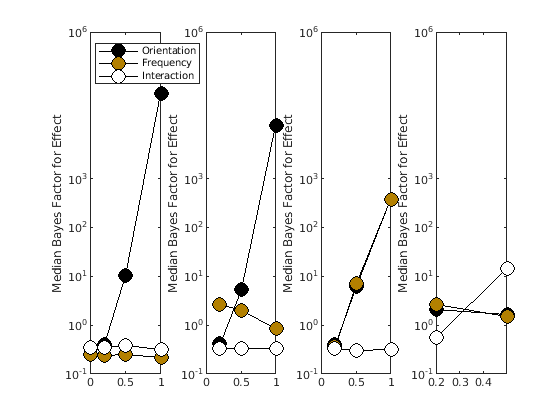
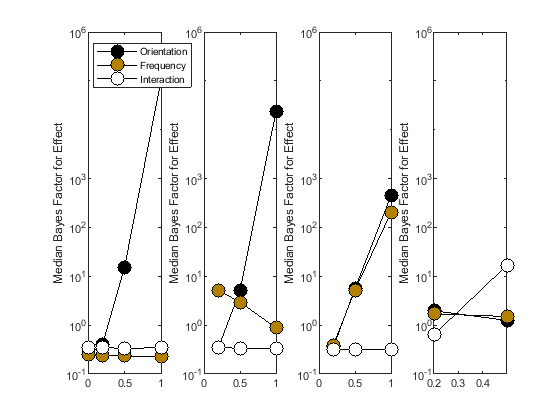
Updated documentation

diff --git a/docs/index.html b/docs/index.html
@@ -6,7 +6,7 @@
    <!--
 This HTML was auto-generated from MATLAB code.
 To make changes, update the MATLAB code and republish this document.
-      --><title>Getting Started with the bayesFactor Toolbox</title><meta name="generator" content="MATLAB 9.6"><link rel="schema.DC" href="http://purl.org/dc/elements/1.1/"><meta name="DC.date" content="2019-12-19"><meta name="DC.source" content="gettingStarted.m"><style type="text/css">
+      --><title>Getting Started with the bayesFactor Toolbox</title><meta name="generator" content="MATLAB 9.5"><link rel="schema.DC" href="http://purl.org/dc/elements/1.1/"><meta name="DC.date" content="2019-12-29"><meta name="DC.source" content="gettingStarted.m"><style type="text/css">
 html,body,div,span,applet,object,iframe,h1,h2,h3,h4,h5,h6,p,blockquote,pre,a,abbr,acronym,address,big,cite,code,del,dfn,em,font,img,ins,kbd,q,s,samp,small,strike,strong,sub,sup,tt,var,b,u,i,center,dl,dt,dd,ol,ul,li,fieldset,form,label,legend,table,caption,tbody,tfoot,thead,tr,th,td{margin:0;padding:0;border:0;outline:0;font-size:100%;vertical-align:baseline;background:transparent}body{line-height:1}ol,ul{list-style:none}blockquote,q{quotes:none}blockquote:before,blockquote:after,q:before,q:after{content:'';content:none}:focus{outine:0}ins{text-decoration:none}del{text-decoration:line-through}table{border-collapse:collapse;border-spacing:0}
 
 html { min-height:100%; margin-bottom:1px; }
@@ -66,8 +66,12 @@ table td { padding:7px 5px; text-align:left; vertical-align:top; border:1px soli
 
 
 
-  </style></head><body><div class="content"><h1>Getting Started with the bayesFactor Toolbox</h1><!--introduction--><!--/introduction--><h2>Contents</h2><div><ul><li><a href="#1">Description</a></li><li><a href="#2">Download &amp; Installation</a></li><li><a href="#3">Authors &amp; Sources</a></li><li><a href="#4">System Requirements</a></li><li><a href="#5">Features</a></li><li><a href="#6">Installation</a></li><li><a href="#7">Examples</a></li><li><a href="#8">Single sample T-Test</a></li><li><a href="#10">Paired T-Test</a></li><li><a href="#13">ANOVA</a></li><li><a href="#20">Repeated Measurements</a></li><li><a href="#26">Figures from Rouder et al. 2012</a></li><li><a href="#29">Bayes Factor Design Analysis - Figures from Schoenbrodt &amp; Wagenmakers</a></li></ul></div><h2 id="1">Description</h2><p>Bayesian statistical analysis can help to design experiments that lead to compelling evidence and to quantify the evidence in favor or against a  hypothesis, based on a dataset.</p><p>This toolbox provides easy-to-use functions to replace (or complement) standard tools for experimental design (e.g. power analysis)  and hypothesis testing (e.g. ttest, anova).</p><h2 id="2">Download &amp; Installation</h2><p>Clone or fork the repository from here  https://github.com/klabhub/bayesFactor then run installBayesFactor.m</p><h2 id="3">Authors &amp; Sources</h2><p>The code was written by Bart Krekelberg (<a href="mailto:bart@vision.rutgers.edu">bart@vision.rutgers.edu</a>) with some code taken from Sam Schwarzkopf's code and with inspiration from the R package by Richard Morey.</p><p>The mathematical underpinning of these analyzes can be found in the following papers:</p><div><ul><li>Rouder, J. N., Morey, R. D., Speckman, P. L. &amp; Province, J. M. Default Bayes factors for ANOVA designs. J. Math. Psychol. 56, 356?374 (2012).</li><li>Kass, R. E. &amp; Raftery, A. E. Bayes factors. J. Am. Stat. Soc. 90, 733?795 (1995).</li><li>Morey, R. D. &amp; Wagenmakers, E. J. Simple relation between Bayesian order-restricted and point-null hypothesis tests. Stat. Probab. Lett. 92, 121?124 (2014).</li><li>Schoenbrodt, F. D. &amp; Wagenmakers, E. J. Bayes factor design analysis: Planning for compelling evidence. Psychon. Bull. Rev. 1?15 (2017). doi:10.3758/s13423-017-1230-y</li></ul></div><h2 id="4">System Requirements</h2><p>This toolbox depends on the Mathworks &lt;https://www.mathworks.com/products/statistics.html Statistics and Machine Learning Toolbox &gt;</p><h2 id="5">Features</h2><p>Currently the following statistical tests have been implemented</p><div><ul><li>One sample t-test  (<tt>bf.ttest</tt>)</li><li>Two sample t-test (<tt>bf.ttest2</tt>)</li><li>N-Way Anova with fixed and random effects  (<tt>bf.anova</tt>)</li><li>Pearson Correlation  (<tt>bf.corr</tt>)</li><li>Binomial Test  (<tt>bf.binom</tt>)</li></ul></div><p>The |bf.designAnalysis |function is used to analyze experimental design (e.g. "power analysis").</p><pre>Note how all user accessible functions in this toolbox are defined inside the 'bf'
-package. This avoids naming conflicts with the standard ttest, ttest2 , etc functions.</pre><p>Function inside bf.internal are not meant to be called  directly.</p><h2 id="6">Installation</h2><p>Place all files and folders in their own folder (e.g. bayesFactor) and then add that folder to your Matlab search path.</p><p>The <tt>installBayesFactor.m</tt> function willl do this for you.</p><h2 id="7">Examples</h2><p>These examples build on the examples used in the Statistics and Machine Learning Toolbox for traditional (frequentist) hypothesis testing and shows how they can be complemented with Bayesian analysis.</p><h2 id="8">Single sample T-Test</h2><pre class="codeinput">load <span class="string">stockreturns</span>
+  </style></head><body><div class="content"><h1>Getting Started with the bayesFactor Toolbox</h1><!--introduction--><!--/introduction--><h2>Contents</h2><div><ul><li><a href="#1">Description</a></li><li><a href="#2">Download</a></li><li><a href="#3">Authors &amp; Sources</a></li><li><a href="#4">System Requirements</a></li><li><a href="#5">Features</a></li><li><a href="#6">Installation</a></li><li><a href="#7">Examples</a></li><li><a href="#8">Single sample T-Test</a></li><li><a href="#10">Paired T-Test</a></li><li><a href="#13">ANOVA</a></li><li><a href="#20">Repeated Measurements</a></li><li><a href="#26">Regression</a></li><li><a href="#27">Show the comparisons</a></li><li><a href="#28">Figures from Rouder et al. 2012</a></li><li><a href="#31">Bayes Factor Design Analysis</a></li><li><a href="#32">Figure 3 in S&amp;W analyzes a Fixed-N design for a two-sample T-test with</a></li></ul></div><h2 id="1">Description</h2><p>Bayesian statistical analysis can help to design experiments that lead to compelling evidence and to quantify the evidence in favor or against a  hypothesis, based on a dataset.</p><p>This toolbox provides easy-to-use functions to replace (or complement) standard tools for experimental design (e.g. power analysis)  and hypothesis testing (e.g. ttest, anova).</p><h2 id="2">Download</h2><p>Clone or fork the repository from <a href="https://github.com/klabhub/bayesFactor">https://github.com/klabhub/bayesFactor</a></p><h2 id="3">Authors &amp; Sources</h2><p>The code was written by Bart Krekelberg (<a href="mailto:bart@vision.rutgers.edu">bart@vision.rutgers.edu</a>) with some code taken from Sam Schwarzkopf's code and with inspiration from the R package by Richard Morey.</p><p>The mathematical underpinning of these analyzes can be found in the following papers:</p><div><ul><li>Rouder, J. N., Morey, R. D., Speckman, P. L. &amp; Province, J. M. Default Bayes factors for ANOVA designs. J. Math. Psychol. 56, 356?374 (2012).</li><li>Kass, R. E. &amp; Raftery, A. E. Bayes factors. J. Am. Stat. Soc. 90, 733?795 (1995).</li><li>Morey, R. D. &amp; Wagenmakers, E. J. Simple relation between Bayesian order-restricted and point-null hypothesis tests. Stat. Probab. Lett. 92, 121?124 (2014).</li><li>Schoenbrodt, F. D. &amp; Wagenmakers, E. J. Bayes factor design analysis: Planning for compelling evidence. Psychon. Bull. Rev. 1?15 (2017). doi:10.3758/s13423-017-1230-y</li></ul></div><h2 id="4">System Requirements</h2><p>This toolbox depends on the Mathworks Statistics and Machine Learning Toolbox <a href="https://www.mathworks.com/products/statistics.html">https://www.mathworks.com/products/statistics.html</a></p><h2 id="5">Features</h2><p>Currently the following statistical tests have been implemented</p><div><ul><li>One sample t-test  (<tt>bf.ttest</tt>)</li><li>Two sample t-test (<tt>bf.ttest2</tt>)</li><li>N-Way Anova with fixed and random effects, including continuous co-variates  (<tt>bf.anova</tt>)</li><li>Regression (<tt>bf.regression</tt>)</li><li>Pearson Correlation  (<tt>bf.corr</tt>)</li><li>Binomial Test  (<tt>bf.binom</tt>)</li><li>Experimental Design &amp; Power Analysis (<tt>bf.designAnalysis</tt>)</li></ul></div><pre>All user accessible functions in this toolbox are defined inside the 'bf'
+package. This avoids naming conflicts with the standard ttest, ttest2 , etc functions.
+Function inside bf.internal are not meant to be called directly.</pre><pre>+bf/  - The package, with all user accessible functions
+docs/ - Documentation
+examples/ - Example scripts
+tools/    - Tools for the maintenance of the package</pre><h2 id="6">Installation</h2><p>Place all files and folders in their own folder (e.g. bayesFactor) and then add that folder to your Matlab search path.</p><p>The <tt>installBayesFactor.m</tt> function willl do this for you.</p><h2 id="7">Examples</h2><p>These examples build on the examples used in the Statistics and Machine Learning Toolbox for traditional (frequentist) hypothesis testing and shows how they can be complemented with Bayesian analysis. The <tt>examples</tt> folder contains additional scripts with examples.</p><h2 id="8">Single sample T-Test</h2><pre class="codeinput">load <span class="string">stockreturns</span>
 [bf10,p] = bf.ttest(stocks(:,3))
 </pre><pre class="codeoutput">
 bf10 =
@@ -98,9 +102,8 @@ bf01 =
     9.8621
 
 </pre><p>Which means that there is strong evidence (BF&gt;6) that there was <i>*no change</i>* in grades (evidence for absence).</p><h2 id="13">ANOVA</h2><p>Rouder et al 2012 show data for 10 subjects performing a visual detection task. The targets vary in orientation and spatial frequency. These data are stored in table (data) in rouder2012Data.</p><pre class="codeinput">load <span class="string">rouder2012Data</span>
-</pre><p>Analyze full model (linear effects of frequency and  orientation plus their interaction)</p><pre class="codeinput">[bfFull,modelFull] = bf.anova(data,<span class="string">'rt~ori*freq'</span>);
-</pre><pre class="codeoutput">Starting parallel pool (parpool) using the 'local' profile ...
-Connected to the parallel pool (number of workers: 12).
+</pre><p>Analyze full model (linear effects of frequency and  orientation plus their interaction)</p><pre class="codeinput">modelFull = fitlme(data,<span class="string">'rt~ori*freq'</span>);
+bfFull = bf.anova(data,<span class="string">'rt~ori*freq'</span>);
 </pre><p>The <tt>modelFull</tt> is a LinearMixedModel from the Matlab Statistics toolbox. We use it to show the traditional ANOVA table</p><pre class="codeinput">modelFull.anova
 </pre><pre class="codeoutput">
 ans = 
@@ -118,25 +121,26 @@ ans =
 </pre><pre class="codeoutput">
 bfFull =
 
-   16.2167
+   16.5823
 
 </pre><p>To specifically look at the evidence for a main effect of orientation, we need to compare the Bayes Factor of the full model to a restricted model in which everything except the main effect of orientation is kept.</p><pre class="codeinput">bfRestricted  =   bf.anova(data,<span class="string">'rt~freq +ori:freq'</span>);  <span class="comment">% Keep main of freq and ori:freq interaction.</span>
 </pre><p>The evidence for the main effect is the ratio of the Bayes Factors.</p><pre class="codeinput">bfMain = bfFull/bfRestricted
 </pre><pre class="codeoutput">
 bfMain =
 
-  174.5856
+  179.5458
 
 </pre><p>The evidence is overwhelmingly in favor of a main effect of orientation.</p><h2 id="20">Repeated Measurements</h2><p>The experiment Rouder et al describe took repeated measurements from the same subject (for each orientation and frequency), but this is not used in the analysis above. If there was large intersubject variability (e.g. some subjects have an overall slow reaction time) then this could reduce the power of the statistical test to detect an effect of orientation. In the example data set there isn't much variation across subjects, so let's introduce some variation to illustrate this.</p><pre class="codeinput">load <span class="string">rouder2012Data</span>
 slowSubjects = ismember(data.subject,[1 4 6]); <span class="comment">% Lets make subjects 1 4 and 6 slower overall by 0.25s .</span>
 data{slowSubjects,<span class="string">'rt'</span>} = data.rt(slowSubjects)+0.25;
-</pre><p>Calculate the BF and LMM model again</p><pre class="codeinput">[bfFull,modelFull] = bf.anova(data,<span class="string">'rt~ori*freq'</span>);
+</pre><p>Calculate the BF and LMM model again</p><pre class="codeinput">modelFull = fitlme(data,<span class="string">'rt~ori*freq'</span>);
+bfFull = bf.anova(data,<span class="string">'rt~ori*freq'</span>);
 bfFull
 anova(modelFull)
 </pre><pre class="codeoutput">
 bfFull =
 
-    0.5097
+    0.5003
 
 
 ans = 
@@ -150,13 +154,14 @@ ans =
     'freq'               0.87453    1      36        0.35594
     'ori:freq'           0.31648    1      36        0.57722
 
-</pre><p>That does not seem right; we did not change how orientation affects RT and yet both the BF and the anova show that the effect is no longer significant.</p><p>Of course, what is missing is a repeated measures approach. With linear mixed models this is done by including an extra term in the model that captures the idiosyncratic offset in the RT for each subject. In the Wilcoxon formula this is written as (1|subject) : fit a constant term (1) for each level of subject.</p><pre class="codeinput">[bfFull,modelFull] = bf.anova(data,<span class="string">'rt~ori*freq + (1|subject)'</span>);
+</pre><p>That does not seem right; we did not change how orientation affects RT and yet both the BF and the anova show that the effect is no longer significant.</p><p>Of course, what is missing is a repeated measures approach. With linear mixed models this is done by including an extra term in the model that captures the idiosyncratic offset in the RT for each subject. In the Wilcoxon formula this is written as (1|subject) : fit a constant term (1) for each level of subject.</p><pre class="codeinput">modelFull = fitlme(data,<span class="string">'rt~ori*freq + (1|subject)'</span>);
+bfFull = bf.anova(data,<span class="string">'rt~ori*freq + (1|subject)'</span>);
 bfFull
 anova(modelFull)
 </pre><pre class="codeoutput">
 bfFull =
 
-    0.8296
+   10.3271
 
 
 ans = 
@@ -170,40 +175,54 @@ ans =
     'freq'               1.7367    1      36        0.19588
     'ori:freq'           0.6285    1      36         0.4331
 
-</pre><p>This shows that after including the intercept term for subjects, the Bayes Factor is increased substantially (as are the F values in the ANOVA).</p><p>Isolating a main effect while using hte repeated measures aspect of the design works analogously:</p><pre class="codeinput">bfRestricted  =   bf.anova(data,<span class="string">'rt~freq +ori:freq + (1|subject)'</span>);
+</pre><p>This shows that after including the intercept term for subjects, the Bayes Factor is increased substantially (as are the F values in the ANOVA).</p><p>Isolating a main effect while using the repeated measures aspect of the design works analogously:</p><pre class="codeinput">bfRestricted  =   bf.anova(data,<span class="string">'rt~freq +ori:freq + (1|subject)'</span>);
 </pre><p>The evidence for the main effect is the ratio of the Bayes Factors. the difference withbefore is that now both BF have been calculated with the subject random intercept.</p><pre class="codeinput">bfMain = bfFull/bfRestricted
 </pre><pre class="codeoutput">
 bfMain =
 
-   10.7816
+  112.3283
 
-</pre><h2 id="26">Figures from Rouder et al. 2012</h2><p>Much of the mathematical basis for this package is developed in the Rouder et al. paper. To test the package, I recreated some of the figures in their publication.</p><p>Figure 2 in Rouder et al compares critical T-values for a traditional t-test with a Bayes Factor analysis.</p><pre class="codeinput">rouderFigure2;
-</pre><img vspace="5" hspace="5" src="gettingStarted_01.png" alt=""> <p>Figure 4 shows Bayes Factor analysis for simulated data with different effect sizes.</p><pre class="codeinput">rouderFigure4(100); <span class="comment">% Use 1000 bootstrap sets .</span>
+</pre><h2 id="26">Regression</h2><p>We analyze the attitude data set  (See <a href="https://richarddmorey.github.io/BayesFactor/#glm">https://richarddmorey.github.io/BayesFactor/#glm</a>)</p><pre class="codeinput">load <span class="string">attitude</span>
+<span class="comment">% Compare the rating~complaints model with a set of alternatives. Here we</span>
+<span class="comment">% just evaluate all the models relative to the intercept only alternative</span>
+<span class="comment">% and then take the ratios.</span>
+models = {<span class="string">'rating~complaints'</span>,<span class="string">'rating~complaints+learning'</span>,<span class="string">'rating~complaints+learning+advance'</span>,<span class="string">'rating~complaints+raises'</span>,<span class="string">'rating~complaints+privileges'</span>,<span class="string">'rating~complaints+advance'</span>};
+bfAnova = bf.regression(attitude,models);
+</pre><h2 id="27">Show the comparisons</h2><pre class="codeinput"><span class="keyword">for</span> i=1:numel(models)
+    fprintf(<span class="string">'%s vs. %s - Bayes Factor :\t\t\t%3.3f\n'</span>,models{i},models{1},bfAnova(i)./bfAnova(1)); <span class="comment">% Compare rating~complaints with other models.</span>
+<span class="keyword">end</span>
+</pre><pre class="codeoutput">rating~complaints vs. rating~complaints - Bayes Factor :			1.000
+rating~complaints+learning vs. rating~complaints - Bayes Factor :			0.423
+rating~complaints+learning+advance vs. rating~complaints - Bayes Factor :			0.153
+rating~complaints+raises vs. rating~complaints - Bayes Factor :			0.150
+rating~complaints+privileges vs. rating~complaints - Bayes Factor :			0.145
+rating~complaints+advance vs. rating~complaints - Bayes Factor :			0.140
+</pre><h2 id="28">Figures from Rouder et al. 2012</h2><p>Much of the mathematical basis for this package is developed in the Rouder et al. paper. To test the package, I recreated some of the figures in their publication.</p><p>Figure 2 in Rouder et al compares critical T-values for a traditional t-test with a Bayes Factor analysis.</p><pre class="codeinput">rouderFigure2;
+</pre><img vspace="5" hspace="5" src="gettingStarted_01.png" alt=""> <p>Figure 4 shows Bayes Factor analysis for simulated data with different effect sizes.</p><pre class="codeinput">rouderFigure4(100); <span class="comment">% Use 100 bootstrap sets .</span>
 </pre><img vspace="5" hspace="5" src="gettingStarted_02.png" alt=""> <p>Figure 5 illustrates the influence of fixed and random effects</p><pre class="codeinput">rouderFigure5;
-</pre><img vspace="5" hspace="5" src="gettingStarted_03.png" alt=""> <h2 id="29">Bayes Factor Design Analysis - Figures from Schoenbrodt &amp; Wagenmakers</h2><p>This paper provides a tutorial treatment of Bayes Factor Design Analysis.  Please see <tt>schoenbrodtFigures.m</tt> for details.</p><pre class="codeinput"><span class="comment">% Figure 3 in S&amp;W analyzes a Fixed-N design for a T-test.</span>
-schoenbrodtFigures(3,1000); <span class="comment">% 10000 Monte Carlo sims</span>
+</pre><img vspace="5" hspace="5" src="gettingStarted_03.png" alt=""> <h2 id="31">Bayes Factor Design Analysis</h2><p>Figures from Schoenbrodt &amp; Wagenmakers, a paperthat provides a tutorial treatment of Bayes Factor Design Analysis. See <tt>schoenbrodtFigures.m</tt> for details. Note that proper distribution estimates would require a larger number of MonteCarlo simulations - here we just run 100 to illustrate the main point.</p><h2 id="32">Figure 3 in S&amp;W analyzes a Fixed-N design for a two-sample T-test with</h2><p>N=20 and N=100 and a standardized effect size  of 0.5.</p><pre class="codeinput">schoenbrodtFigures(3,1000); <span class="comment">% 1000 Monte Carlo sims</span>
 </pre><pre class="codeoutput">***************
 N = 20  100
-False Positives (%): 0.9           1
-False Negatives (%): 0.8           0
-True Positives (%) 18.6         84.6
-True Negatives (%) 19.8         53.4
+False Positives (%): 0.9         0.9
+False Negatives (%): 1.1           0
+True Positives (%) 20.9         86.2
+True Negatives (%) 20.2         53.4
 **************
 Necessary sample size for 95% success under H1 is Inf
-False Positives (%): 0.8         0.5         0.1         0.8         0.6         0.6         0.1         0.3         0.3         0.6         0.5         0.1         0.5
+False Positives (%): 0.3         0.3         0.3         0.8         0.4         0.6         0.1         0.3         0.2         0.6         0.4         0.1         0.4
 False Negatives (%): 0  0  0  0  0  0  0  0  0  0  0  0  0
-True negative  (%): 54.1         59.4         63.8         61.2         60.3         63.1         61.9         62.5         63.2         59.2           63         63.1         62.3
-</pre><img vspace="5" hspace="5" src="gettingStarted_04.png" alt=""> <p>Figure 4 in S&amp;@ analyzes a Bayes sequential sampling design.</p><pre class="codeinput">schoenbrodtFigures(4,1000); <span class="comment">% 10000 Monte Carlo sims</span>
-</pre><pre class="codeoutput">False Positive Rate: 91.1%
-False Negative Rate: 1.9%
-Median Sample Size (H1): 38
-Median Sample Size (H0): 40
-</pre><img vspace="5" hspace="5" src="gettingStarted_05.png" alt=""> <p>Figure 5 refines the Sequential design analysis</p><pre class="codeinput">schoenbrodtFigures(5,1000); <span class="comment">% 10000 Monte Carlo sims</span>
-</pre><pre class="codeoutput">False Positive Rate: 72.9%
-False Negative Rate: 1%
-Median Sample Size (H1): 64
-Median Sample Size (H0): 53.5
-</pre><img vspace="5" hspace="5" src="gettingStarted_06.png" alt=""> <p class="footer"><br><a href="https://www.mathworks.com/products/matlab/">Published with MATLAB&reg; R2019a</a><br></p></div><!--
+True negative  (%): 55.2         56.2           61         60.7         59.7           61         60.7         58.9         63.4         63.2         61.9         60.4         61.9
+</pre><img vspace="5" hspace="5" src="gettingStarted_04.png" alt=""> <p>Figure 4 in S&amp;W analyzes a Bayes sequential sampling design. and the use of a distribution of a-priori effect sizes (instead ot a single predicted effect size)</p><pre class="codeinput">schoenbrodtFigures(4,1000); <span class="comment">% 1000 Monte Carlo sims</span>
+</pre><pre class="codeoutput">False Positive Rate: 90.4%
+False Negative Rate: 3.5%
+Median Sample Size (H1): 42
+Median Sample Size (H0): 45
+</pre><img vspace="5" hspace="5" src="gettingStarted_05.png" alt=""> <p>Figure 5 refines the Sequential design analysis with asymmetric evidence boundaries and a largger minimal N reduces false positives</p><pre class="codeinput">schoenbrodtFigures(5,1000); <span class="comment">% 1000 Monte Carlo sims</span>
+</pre><pre class="codeoutput">False Positive Rate: 71.6%
+False Negative Rate: 1.7%
+Median Sample Size (H1): 76
+Median Sample Size (H0): 54.5
+</pre><img vspace="5" hspace="5" src="gettingStarted_06.png" alt=""> <p class="footer"><br><a href="https://www.mathworks.com/products/matlab/">Published with MATLAB&reg; R2018b</a><br></p></div><!--
 ##### SOURCE BEGIN #####
 %% Getting Started with the bayesFactor Toolbox
 %% Description
@@ -214,9 +233,8 @@ Median Sample Size (H0): 53.5
 % This toolbox provides easy-to-use functions to replace (or complement) 
 % standard tools for experimental design (e.g. power analysis)  and hypothesis 
 % testing (e.g. ttest, anova).
-%% Download & Installation
-% Clone or fork the repository from here  https://github.com/klabhub/bayesFactor
-% then run installBayesFactor.m
+%% Download 
+% Clone or fork the repository from <https://github.com/klabhub/bayesFactor>
 %
 %% Authors & Sources
 % The code was written by Bart Krekelberg (bart@vision.rutgers.edu) with some 
@@ -235,26 +253,29 @@ Median Sample Size (H0): 53.5
 % *  Schoenbrodt, F. D. & Wagenmakers, E. J. Bayes factor design analysis: Planning 
 % for compelling evidence. Psychon. Bull. Rev. 1?15 (2017). doi:10.3758/s13423-017-1230-y
 %% System Requirements 
-% This toolbox depends on the Mathworks <https://www.mathworks.com/products/statistics.html 
-% Statistics and Machine Learning Toolbox >
+% This toolbox depends on the Mathworks Statistics and Machine Learning Toolbox 
+% <https://www.mathworks.com/products/statistics.html> 
+% 
 %% Features
 % Currently the following statistical tests have been implemented
 % 
 % * One sample t-test  (|bf.ttest|)
 % * Two sample t-test (|bf.ttest2|)
-% * N-Way Anova with fixed and random effects  (|bf.anova|)
+% * N-Way Anova with fixed and random effects, including continuous co-variates  (|bf.anova|)
+% * Regression (|bf.regression|)
 % * Pearson Correlation  (|bf.corr|)
 % * Binomial Test  (|bf.binom|)
+% * Experimental Design & Power Analysis (|bf.designAnalysis|)
 % 
-% The |bf.designAnalysis |function is used to analyze experimental design (e.g. 
-% "power analysis").
-% 
-%  Note how all user accessible functions in this toolbox are defined inside the 'bf'
+%  All user accessible functions in this toolbox are defined inside the 'bf'
 %  package. This avoids naming conflicts with the standard ttest, ttest2 , etc functions. 
-% 
-% Function inside bf.internal are not meant to be called
-%  directly.
-% 
+%  Function inside bf.internal are not meant to be called directly.
+%  
+%  +bf/  - The package, with all user accessible functions
+%  docs/ - Documentation
+%  examples/ - Example scripts
+%  tools/    - Tools for the maintenance of the package
+%
 %% Installation
 % 
 % Place all files and folders in their own folder (e.g. bayesFactor) and
@@ -265,7 +286,8 @@ Median Sample Size (H0): 53.5
 %% Examples
 % These examples build on the examples used in the Statistics and Machine Learning 
 % Toolbox for traditional (frequentist) hypothesis testing and shows how they 
-% can be complemented with Bayesian analysis. 
+% can be complemented with Bayesian analysis. The |examples| folder
+% contains additional scripts with examples.
 %
 
 %% Single sample T-Test
@@ -300,7 +322,8 @@ load rouder2012Data
 % Analyze full model (linear effects of frequency and  orientation plus 
 % their interaction) 
 
-[bfFull,modelFull] = bf.anova(data,'rt~ori*freq');
+modelFull = fitlme(data,'rt~ori*freq');
+bfFull = bf.anova(data,'rt~ori*freq');
 %% 
 % The |modelFull| is a LinearMixedModel from the Matlab Statistics toolbox. 
 % We use it to show the traditional ANOVA table
@@ -347,7 +370,8 @@ data{slowSubjects,'rt'} = data.rt(slowSubjects)+0.25;
 
 %%
 % Calculate the BF and LMM model again
-[bfFull,modelFull] = bf.anova(data,'rt~ori*freq');
+modelFull = fitlme(data,'rt~ori*freq');
+bfFull = bf.anova(data,'rt~ori*freq');
 bfFull
 anova(modelFull)
 
@@ -361,8 +385,8 @@ anova(modelFull)
 % idiosyncratic offset in the RT for each subject. In the Wilcoxon formula
 % this is written as (1|subject) : fit a constant term (1) for each level
 % of subject.
-
-[bfFull,modelFull] = bf.anova(data,'rt~ori*freq + (1|subject)');
+modelFull = fitlme(data,'rt~ori*freq + (1|subject)');
+bfFull = bf.anova(data,'rt~ori*freq + (1|subject)');
 bfFull
 anova(modelFull)
 
@@ -370,7 +394,7 @@ anova(modelFull)
 % This shows that after including the intercept term for subjects, the
 % Bayes Factor is increased substantially (as are the F values in the ANOVA).
 %
-% Isolating a main effect while using hte repeated measures aspect of the design
+% Isolating a main effect while using the repeated measures aspect of the design
 % works analogously:
 
 bfRestricted  =   bf.anova(data,'rt~freq +ori:freq + (1|subject)');  
@@ -381,6 +405,21 @@ bfRestricted  =   bf.anova(data,'rt~freq +ori:freq + (1|subject)');
 % the subject random intercept.
 
 bfMain = bfFull/bfRestricted
+
+%% Regression
+% We analyze the attitude data set  (See
+% <https://richarddmorey.github.io/BayesFactor/#glm>)
+load attitude
+% Compare the rating~complaints model with a set of alternatives. Here we
+% just evaluate all the models relative to the intercept only alternative
+% and then take the ratios. 
+models = {'rating~complaints','rating~complaints+learning','rating~complaints+learning+advance','rating~complaints+raises','rating~complaints+privileges','rating~complaints+advance'};
+bfAnova = bf.regression(attitude,models);
+%% Show the comparisons
+for i=1:numel(models)
+    fprintf('%s vs. %s - Bayes Factor :\t\t\t%3.3f\n',models{i},models{1},bfAnova(i)./bfAnova(1)); % Compare rating~complaints with other models.
+end
+
 
 %% Figures from Rouder et al. 2012
 % Much of the mathematical basis for this package is developed in the Rouder 
@@ -396,30 +435,35 @@ rouderFigure2;
 % Figure 4 shows Bayes Factor analysis for simulated data with different 
 % effect sizes.
 % 
-rouderFigure4(100); % Use 1000 bootstrap sets . 
+rouderFigure4(100); % Use 100 bootstrap sets . 
 
 %%
 % Figure 5 illustrates the influence of fixed and random effects
 % 
 rouderFigure5;
 
-%% Bayes Factor Design Analysis - Figures from Schoenbrodt & Wagenmakers 
-% This paper provides a tutorial treatment of Bayes Factor Design Analysis.
-%  Please see |schoenbrodtFigures.m| for details.
+%% Bayes Factor Design Analysis
+% Figures from Schoenbrodt & Wagenmakers, a paperthat provides a tutorial 
+% treatment of Bayes Factor Design Analysis. See |schoenbrodtFigures.m| for details.
+% Note that proper distribution estimates would require a larger number of 
+% MonteCarlo simulations - here we just run 100 to illustrate the main point.
 
-% Figure 3 in S&W analyzes a Fixed-N design for a T-test.
-schoenbrodtFigures(3,1000); % 10000 Monte Carlo sims
+%% Figure 3 in S&W analyzes a Fixed-N design for a two-sample T-test with 
+% N=20 and N=100 and a standardized effect size  of 0.5.
+schoenbrodtFigures(3,1000); % 1000 Monte Carlo sims
 
 %%
 %
-% Figure 4 in S&@ analyzes a Bayes sequential sampling design.
-schoenbrodtFigures(4,1000); % 10000 Monte Carlo sims
+% Figure 4 in S&W analyzes a Bayes sequential sampling design.
+% and the use of a distribution of a-priori effect sizes (instead ot a single 
+% predicted effect size)
+schoenbrodtFigures(4,1000); % 1000 Monte Carlo sims
 
 %%
 % 
 % Figure 5 refines the Sequential design analysis
-
-schoenbrodtFigures(5,1000); % 10000 Monte Carlo sims
+% with asymmetric evidence boundaries and a largger minimal N reduces false positives
+schoenbrodtFigures(5,1000); % 1000 Monte Carlo sims
 
 ##### SOURCE END #####
 --></body></html>

diff --git a/examples/gettingStarted.m b/examples/gettingStarted.m
@@ -189,7 +189,8 @@ load attitude
 % and then take the ratios. 
 models = {'rating~complaints','rating~complaints+learning','rating~complaints+learning+advance','rating~complaints+raises','rating~complaints+privileges','rating~complaints+advance'};
 bfAnova = bf.regression(attitude,models);
-%% Show the comparisons
+%
+% Show the comparisons
 for i=1:numel(models)
     fprintf('%s vs. %s - Bayes Factor :\t\t\t%3.3f\n',models{i},models{1},bfAnova(i)./bfAnova(1)); % Compare rating~complaints with other models.
 end
@@ -222,7 +223,8 @@ rouderFigure5;
 % Note that proper distribution estimates would require a larger number of 
 % MonteCarlo simulations - here we just run 100 to illustrate the main point.
 
-%% Figure 3 in S&W analyzes a Fixed-N design for a two-sample T-test with 
+%% 
+% Figure 3 in S&W analyzes a Fixed-N design for a two-sample T-test with 
 % N=20 and N=100 and a standardized effect size  of 0.5.
 schoenbrodtFigures(3,1000); % 1000 Monte Carlo sims
 
